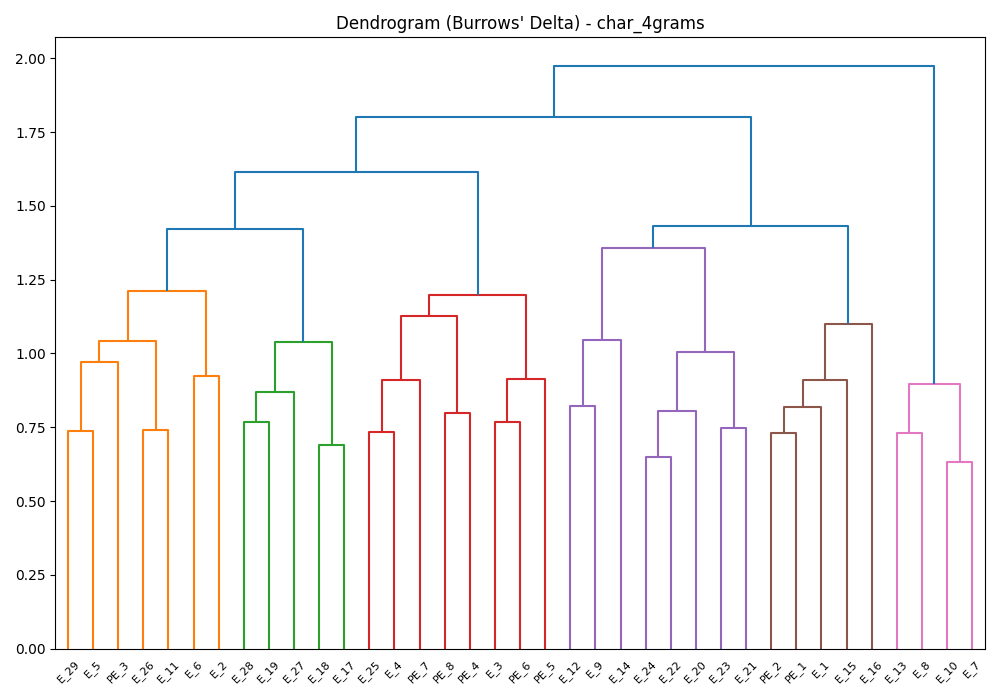
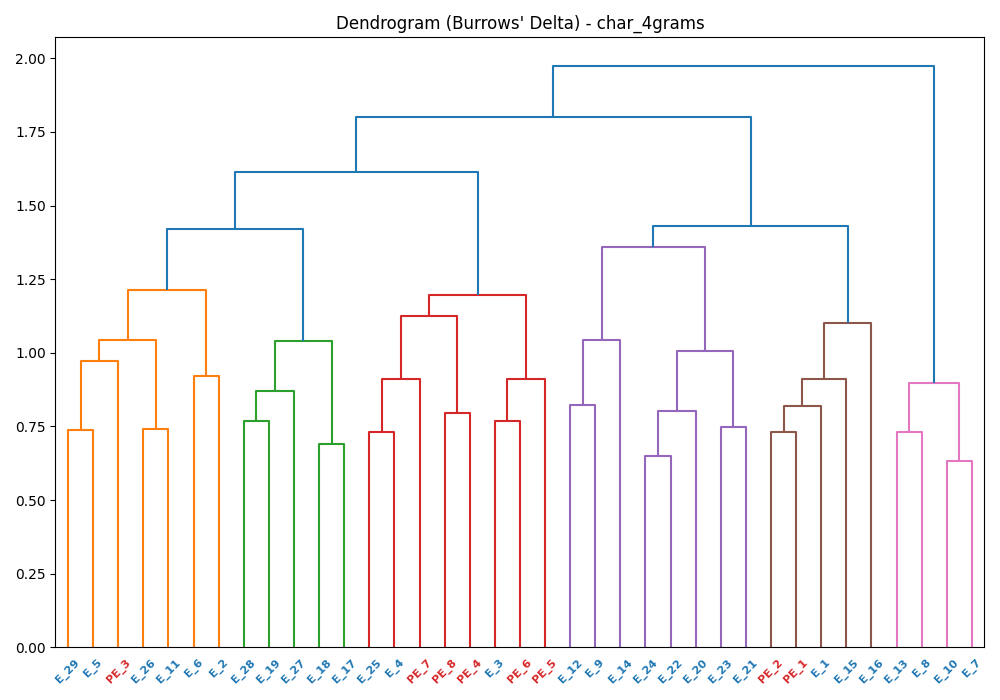
Color X-axis dendrogram labels (Red for PE, Blue for E)

diff --git a/analysis.py b/analysis.py
@@ -184,6 +184,18 @@ def main():
         plt.figure(figsize=(10, 7))
         dendrogram(linked, labels=chunk_labels, orientation='top', distance_sort='descending', show_leaf_counts=True)
         plt.title(f'Dendrogram (Burrows\' Delta) - {feature_type}')
+        
+        # Color the X-axis tick labels based on author
+        ax = plt.gca()
+        xlbls = ax.get_xmajorticklabels()
+        for lbl in xlbls:
+            if lbl.get_text().startswith('PE_'):
+                lbl.set_color('#d62728')  # deep red for PE
+                lbl.set_fontweight('bold')
+            else:
+                lbl.set_color('#1f77b4')  # deep blue for E
+                lbl.set_fontweight('bold')
+
         plt.tight_layout()
         plt.savefig(f'dendrogram_{feature_type}.png')
         plt.close()
